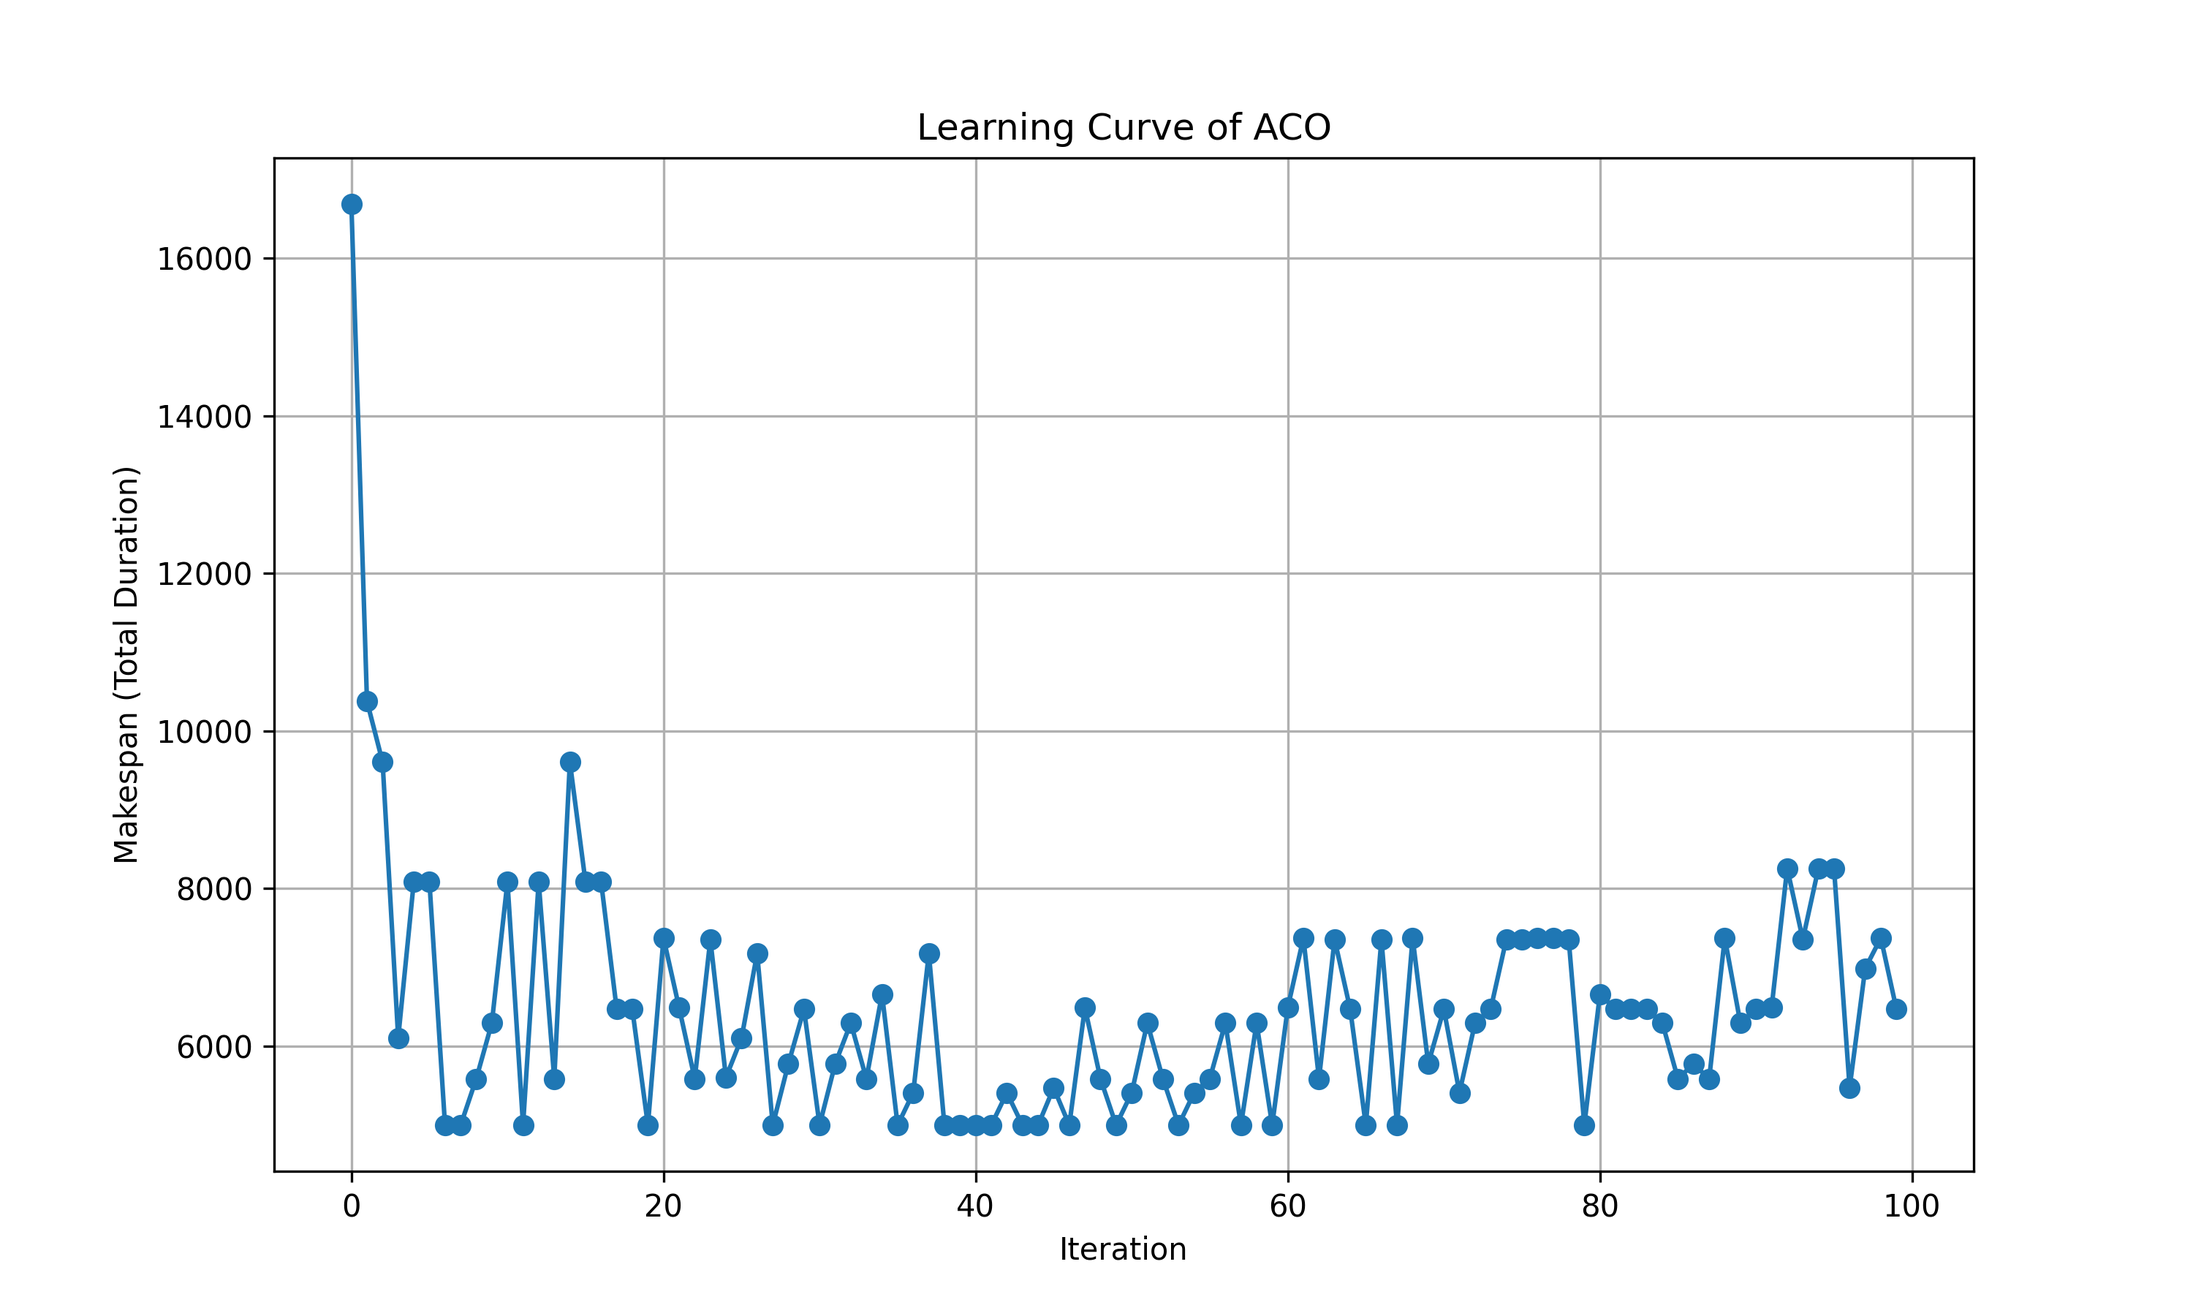
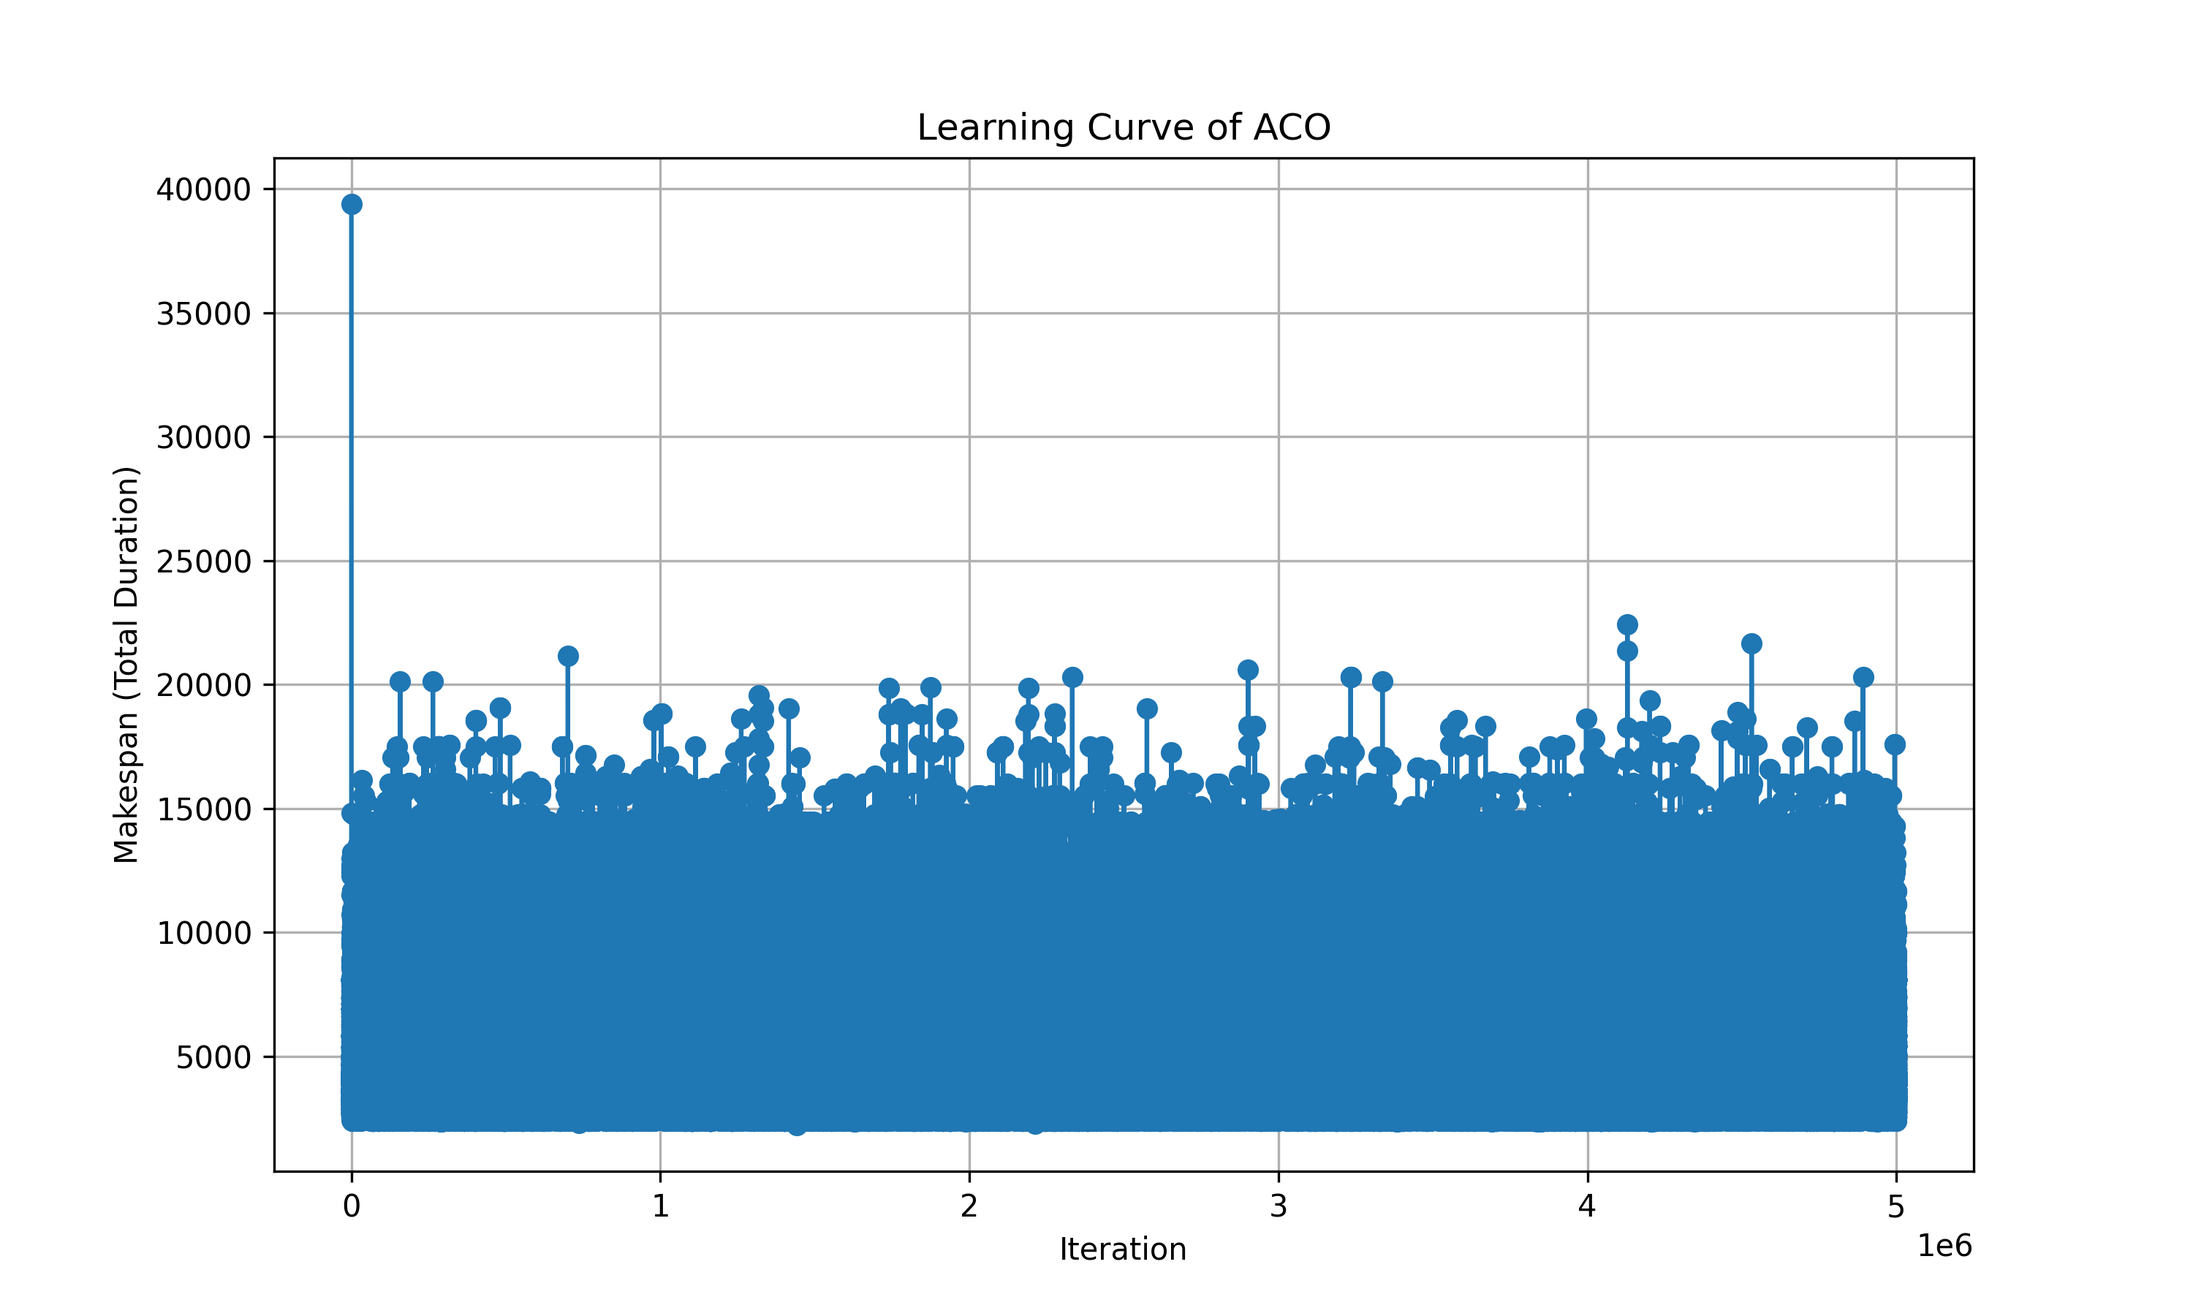
update README and best parameters

diff --git a/main.py b/main.py
@@ -14,14 +14,14 @@ workersData = pd.read_csv("data/workers.csv")
 jobs = create_jobs_from_df(jobData)
 workers = create_workers_from_df(workersData)
 
-# matches = create_matches(jobs,workers,0.398, VERBOSE=1)    
-# ants = []
-# for i in range(1, 7):
-#     ants.append(Ant(id=i))
+matches = create_matches(jobs,workers,0.554)    
+ants = []
+for i in range(1, 6):
+    ants.append(Ant(id=i))
 
-# optimal_path, total_duration = ACO(jobs, workers, matches, ants, alpha=1.913, beta=0.462, evap_coeff=0.133, Q=10, animate=animate, learning_curve=learning_curve, verbose=1, max_iterations=500)
+optimal_path, total_duration = ACO(jobs, workers, matches, ants, alpha=1.182, beta=0.497, evap_coeff=0.892, Q=75.021, animate=animate, learning_curve=learning_curve, max_iterations=5000000, verbose=1, patience=5000)
 
-# display_duration_per_worker(optimal_path)
+display_duration_per_worker(optimal_path)
 
 # print("Optimal Path:")
 # for job, worker in optimal_path:

diff --git a/utils/options.py b/utils/options.py
@@ -1,7 +1,7 @@
-verbose = True
+verbose = False
 find_optimal = False
-all_jobs = True
+all_jobs = False
 fine_tune = False
-jobs = 63
+jobs = 27
 animate = False
-learning_curve = False
+learning_curve = True

diff --git a/README.md b/README.md
@@ -3,25 +3,76 @@ solving static job scheduling problem in the UPC system with ant colony optimiza
 
 ### ACO vs Randomized Multi-start Local Search.
 
-| #              | 9 jobs         | 18 jobs           | 27 jobs           |
-| -------------- | -------------- | ----------------- | ----------------- |
-| Local Search.  | 00:38:29       | 01:09:10          | 01:46:34          |
-| Proposal (ACO) | 00:36:09       | 00:55:30          | 01:23:15          |
-| Improvement    | 00:02:20 (06%) | 00:13:40 (19.76%) | 00:23:19 (21.88%) |
+| #              | 9 jobs            | 18 jobs           | 27 jobs           |
+| -------------- | ----------------- | ----------------- | ----------------- |
+| Local Search.  | 00:38:29          | 01:09:10          | 01:46:34          |
+| Proposal (ACO) | 00:36:09          | 00:36:09          | 00:44:09          |
+| Improvement    | 00:02:20 (06.06%) | 00:33:01 (47.73%) | 01:02:25 (58.57%) |
 
 ---
 
 ### Genetic Algorithm vs Ant Colony Optimization
 
-| Nbr of jobs | Genetic Algorithm | Ant Colony Optimization |
-| ----------- | ----------------- | ----------------------- |
-| 09          | 00:36:09          | 00:36:09                |
-| 18          | 00:54:21          | 00:55:30                |
-| 27          | 01:13:36          | 01:23:15                |
-| 36          | 01:41:41          | 01:51:00                |
-| 45          | 02:00:07          | 02:18:45                |
-| 54          | 02:27:37          | 02:46:30                |
-| 63          | 02:50:48          | 03:17:34                |
-| 72          | 03:14:58          | 03:45:19                |
-| 81          | 03:34:57          | 04:14:00                |
-| 90          | 04:00:00          | 04:40:49                |
+| Nbr of jobs | Genetic Algorithm | Ant Colony Optimization |       Improvement |
+| :---------- | :---------------: | :---------------------: | ----------------: |
+| 09          |     00:36:09      |        00:36:09         | 00:00:00 (00.00%) |
+| 18          |     00:54:21      |        00:36:09         | 00:18:12 (33.49%) |
+| 27          |     01:13:36      |        00:44:09         | 00:29:27 (40.01%) |
+| 36          |     01:41:41      |        00:53:47         | 00:47:54 (47.11%) |
+| 45          |     02:00:07      |        01:04:41         | 00:55:26 (46.15%) |
+| 54          |     02:27:37      |        01:17:54         | 01:09:43 (47.23%) |
+| 63          |     02:50:48      |        01:25:53         | 01:24:55 (49.72%) |
+| 72          |     03:14:58      |        01:44:24         | 01:30:34 (46.45%) |
+| 81          |     03:34:57      |        02:00:12         | 01:34:45 (44.08%) |
+| 90          |     04:00:00      |        02:09:07         | 01:50:53 (46.20%) |
+
+
+
+Dataset: data/jobs9.csv
+Optimal Path: [('Network Simulator', 'PC5'), ('Optimization Algorithm', 'PC2'), ('DCGAN', 'PC3'), ('RNN', 'PC3'), ('CNN', 'PC2'), ('FFmpeg', 'PC4'), ('Converter', 'PC4'), ('Palabos', 'PC2'), ('Flow', 'PC4')]
+Total Duration: 0 hours 36 minutes 9 seconds
+
+
+Dataset: data/jobs18.csv
+Optimal Path: [('Network Simulator', 'PC5'), ('Optimization Algorithm', 'PC5'), ('DCGAN', 'PC4'), ('RNN', 'PC2'), ('CNN', 'PC4'), ('FFmpeg', 'PC3'), ('Converter', 'PC5'), ('Palabos', 'PC3'), ('Flow', 'PC5'), ('Network Simulator', 'PC5'), ('Optimization Algorithm', 'PC2'), ('DCGAN', 'PC4'), ('RNN', 'PC2'), ('CNN', 'PC3'), ('FFmpeg', 'PC5'), ('Converter', 'PC3'), ('Palabos', 'PC5'), ('Flow', 'PC5')]
+Total Duration: 0 hours 36 minutes 9 seconds
+
+
+Dataset: data/jobs27.csv
+Optimal Path: [('Network Simulator', 'PC4'), ('Optimization Algorithm', 'PC1'), ('DCGAN', 'PC4'), ('RNN', 'PC5'), ('CNN', 'PC3'), ('FFmpeg', 'PC4'), ('Converter', 'PC3'), ('Palabos', 'PC4'), ('Flow', 'PC3'), ('Network Simulator', 'PC4'), ('Optimization Algorithm', 'PC5'), ('DCGAN', 'PC5'), ('RNN', 'PC5'), ('CNN', 'PC4'), ('FFmpeg', 'PC5'), ('Converter', 'PC3'), ('Palabos', 'PC3'), ('Flow', 'PC2'), ('Network Simulator', 'PC5'), ('Optimization Algorithm', 'PC2'), ('DCGAN', 'PC5'), ('RNN', 'PC2'), ('CNN', 'PC3'), ('FFmpeg', 'PC4'), ('Converter', 'PC2'), ('Palabos', 'PC5'), ('Flow', 'PC4')]
+Total Duration: 0 hours 44 minutes 9 seconds
+
+
+Dataset: data/jobs36.csv
+Optimal Path: [('Network Simulator', 'PC5'), ('Optimization Algorithm', 'PC4'), ('DCGAN', 'PC5'), ('RNN', 'PC3'), ('CNN', 'PC3'), ('FFmpeg', 'PC4'), ('Converter', 'PC4'), ('Palabos', 'PC5'), ('Flow', 'PC5'), ('Network Simulator', 'PC5'), ('Optimization Algorithm', 'PC5'), ('DCGAN', 'PC4'), ('RNN', 'PC2'), ('CNN', 'PC3'), ('FFmpeg', 'PC4'), ('Converter', 'PC5'), ('Palabos', 'PC3'), ('Flow', 'PC5'), ('Network Simulator', 'PC4'), ('Optimization Algorithm', 'PC4'), ('DCGAN', 'PC5'), ('RNN', 'PC3'), ('CNN', 'PC5'), ('FFmpeg', 'PC5'), ('Converter', 'PC3'), ('Palabos', 'PC5'), ('Flow', 'PC2'), ('Network Simulator', 'PC4'), ('Optimization Algorithm', 'PC2'), ('DCGAN', 'PC3'), ('RNN', 'PC4'), ('CNN', 'PC5'), ('FFmpeg', 'PC5'), ('Converter', 'PC4'), ('Palabos', 'PC5'), ('Flow', 'PC5')]      
+Total Duration: 0 hours 53 minutes 47 seconds
+
+
+Dataset: data/jobs45.csv
+Optimal Path: [('Network Simulator', 'PC5'), ('Optimization Algorithm', 'PC3'), ('DCGAN', 'PC3'), ('RNN', 'PC5'), ('CNN', 'PC4'), ('FFmpeg', 'PC4'), ('Converter', 'PC4'), ('Palabos', 'PC2'), ('Flow', 'PC2'), ('Network Simulator', 'PC5'), ('Optimization Algorithm', 'PC4'), ('DCGAN', 'PC5'), ('RNN', 'PC5'), ('CNN', 'PC4'), ('FFmpeg', 'PC4'), ('Converter', 'PC1'), ('Palabos', 'PC4'), ('Flow', 'PC4'), ('Network Simulator', 'PC4'), ('Optimization Algorithm', 'PC5'), ('DCGAN', 'PC3'), ('RNN', 'PC4'), ('CNN', 'PC5'), ('FFmpeg', 'PC3'), ('Converter', 'PC3'), ('Palabos', 'PC3'), ('Flow', 'PC2'), ('Network Simulator', 'PC3'), ('Optimization Algorithm', 'PC1'), ('DCGAN', 'PC4'), ('RNN', 'PC4'), ('CNN', 'PC4'), ('FFmpeg', 'PC2'), ('Converter', 'PC5'), ('Palabos', 'PC4'), ('Flow', 'PC5'), ('Network Simulator', 'PC4'), ('Optimization Algorithm', 'PC5'), ('DCGAN', 'PC5'), ('RNN', 'PC5'), ('CNN', 'PC5'), ('FFmpeg', 'PC5'), ('Converter', 'PC3'), ('Palabos', 'PC2'), ('Flow', 'PC4')]
+Total Duration: 1 hours 4 minutes 41 seconds
+
+
+Dataset: data/jobs54.csv
+Optimal Path: [('Network Simulator', 'PC5'), ('Optimization Algorithm', 'PC2'), ('DCGAN', 'PC5'), ('RNN', 'PC3'), ('CNN', 'PC5'), ('FFmpeg', 'PC5'), ('Converter', 'PC4'), ('Palabos', 'PC5'), ('Flow', 'PC5'), ('Network Simulator', 'PC5'), ('Optimization Algorithm', 'PC3'), ('DCGAN', 'PC4'), ('RNN', 'PC5'), ('CNN', 'PC5'), ('FFmpeg', 'PC2'), ('Converter', 'PC4'), ('Palabos', 'PC3'), ('Flow', 'PC5'), ('Network Simulator', 'PC4'), ('Optimization Algorithm', 'PC5'), ('DCGAN', 'PC4'), ('RNN', 'PC5'), ('CNN', 'PC3'), ('FFmpeg', 'PC5'), ('Converter', 'PC1'), ('Palabos', 'PC3'), ('Flow', 'PC5'), ('Network Simulator', 'PC4'), ('Optimization Algorithm', 'PC6'), ('DCGAN', 'PC4'), ('RNN', 'PC4'), ('CNN', 'PC6'), ('FFmpeg', 'PC5'), ('Converter', 'PC5'), ('Palabos', 'PC4'), ('Flow', 'PC4'), ('Network Simulator', 'PC3'), ('Optimization Algorithm', 'PC2'), ('DCGAN', 'PC4'), ('RNN', 'PC3'), ('CNN', 'PC5'), ('FFmpeg', 'PC5'), ('Converter', 'PC3'), ('Palabos', 'PC3'), ('Flow', 'PC4'), ('Network Simulator', 'PC5'), ('Optimization Algorithm', 'PC4'), ('DCGAN', 'PC4'), ('RNN', 'PC6'), ('CNN', 'PC3'), ('FFmpeg', 'PC5'), ('Converter', 'PC2'), ('Palabos', 'PC4'), ('Flow', 'PC4')]
+Total Duration: 1 hours 17 minutes 54 seconds
+
+
+Dataset: data/jobs63.csv
+Optimal Path: [('Network Simulator', 'PC4'), ('Optimization Algorithm', 'PC5'), ('DCGAN', 'PC4'), ('RNN', 'PC3'), ('CNN', 'PC5'), ('FFmpeg', 'PC4'), ('Converter', 'PC3'), ('Palabos', 'PC3'), ('Flow', 'PC3'), ('Network Simulator', 'PC5'), ('Optimization Algorithm', 'PC4'), ('DCGAN', 'PC4'), ('RNN', 'PC5'), ('CNN', 'PC4'), ('FFmpeg', 'PC3'), ('Converter', 'PC4'), ('Palabos', 'PC5'), ('Flow', 'PC5'), ('Network Simulator', 'PC4'), ('Optimization Algorithm', 'PC4'), ('DCGAN', 'PC5'), ('RNN', 'PC3'), ('CNN', 'PC5'), ('FFmpeg', 'PC4'), ('Converter', 'PC2'), ('Palabos', 'PC5'), ('Flow', 'PC4'), ('Network Simulator', 'PC2'), ('Optimization Algorithm', 'PC4'), ('DCGAN', 'PC5'), ('RNN', 'PC2'), ('CNN', 'PC3'), ('FFmpeg', 'PC5'), ('Converter', 'PC3'), ('Palabos', 'PC5'), ('Flow', 'PC3'), ('Network Simulator', 'PC4'), ('Optimization Algorithm', 'PC4'), ('DCGAN', 'PC5'), ('RNN', 'PC4'), ('CNN', 'PC3'), ('FFmpeg', 'PC2'), ('Converter', 'PC4'), ('Palabos', 'PC3'), ('Flow', 'PC2'), ('Network Simulator', 'PC3'), ('Optimization Algorithm', 'PC4'), ('DCGAN', 'PC5'), ('RNN', 'PC4'), ('CNN', 'PC5'), ('FFmpeg', 'PC5'), ('Converter', 'PC2'), ('Palabos', 'PC3'), ('Flow', 'PC3'), ('Network Simulator', 'PC5'), ('Optimization Algorithm', 'PC2'), ('DCGAN', 'PC4'), ('RNN', 'PC2'), ('CNN', 'PC3'), ('FFmpeg', 'PC3'), ('Converter', 'PC4'), ('Palabos', 'PC4'), ('Flow', 'PC3')]
+Total Duration: 1 hours 25 minutes 53 seconds
+
+
+Dataset: data/jobs72.csv
+Optimal Path: [('Network Simulator', 'PC5'), ('Optimization Algorithm', 'PC5'), ('DCGAN', 'PC5'), ('RNN', 'PC2'), ('CNN', 'PC4'), ('FFmpeg', 'PC4'), ('Converter', 'PC2'), ('Palabos', 'PC5'), ('Flow', 'PC4'), ('Network Simulator', 'PC4'), ('Optimization Algorithm', 'PC5'), ('DCGAN', 'PC4'), ('RNN', 'PC3'), ('CNN', 'PC4'), ('FFmpeg', 'PC5'), ('Converter', 'PC5'), ('Palabos', 'PC5'), ('Flow', 'PC2'), ('Network Simulator', 'PC4'), ('Optimization Algorithm', 'PC6'), ('DCGAN', 'PC4'), ('RNN', 'PC5'), ('CNN', 'PC2'), ('FFmpeg', 'PC5'), ('Converter', 'PC4'), ('Palabos', 'PC6'), ('Flow', 'PC1'), ('Network Simulator', 'PC4'), ('Optimization Algorithm', 'PC3'), ('DCGAN', 'PC4'), ('RNN', 'PC5'), ('CNN', 'PC5'), ('FFmpeg', 'PC5'), ('Converter', 'PC3'), ('Palabos', 'PC5'), ('Flow', 'PC3'), ('Network Simulator', 'PC5'), ('Optimization Algorithm', 'PC4'), ('DCGAN', 'PC4'), ('RNN', 'PC2'), ('CNN', 'PC5'), ('FFmpeg', 'PC4'), ('Converter', 'PC4'), ('Palabos', 'PC4'), ('Flow', 'PC6'), ('Network Simulator', 'PC3'), ('Optimization Algorithm', 'PC5'), ('DCGAN', 'PC5'), ('RNN', 'PC6'), ('CNN', 'PC5'), ('FFmpeg', 'PC3'), ('Converter', 'PC5'), ('Palabos', 'PC2'), ('Flow', 'PC3'), ('Network Simulator', 'PC5'), ('Optimization Algorithm', 'PC4'), ('DCGAN', 'PC4'), ('RNN', 'PC5'), ('CNN', 'PC5'), ('FFmpeg', 'PC3'), ('Converter', 'PC4'), ('Palabos', 'PC2'), ('Flow', 'PC4'), ('Network Simulator', 'PC3'), ('Optimization Algorithm', 'PC3'), ('DCGAN', 'PC3'), ('RNN', 'PC5'), ('CNN', 'PC3'), ('FFmpeg', 'PC5'), ('Converter', 'PC4'), ('Palabos', 'PC3'), ('Flow', 'PC5')]
+Total Duration: 1 hours 44 minutes 24 seconds
+
+
+Dataset: data/jobs81.csv
+Optimal Path: [('Network Simulator', 'PC4'), ('Optimization Algorithm', 'PC5'), ('DCGAN', 'PC3'), ('RNN', 'PC5'), ('CNN', 'PC5'), ('FFmpeg', 'PC4'), ('Converter', 'PC4'), ('Palabos', 'PC2'), ('Flow', 'PC6'), ('Network Simulator', 'PC2'), ('Optimization Algorithm', 'PC2'), ('DCGAN', 'PC4'), ('RNN', 'PC5'), ('CNN', 'PC4'), ('FFmpeg', 'PC3'), ('Converter', 'PC4'), ('Palabos', 'PC3'), ('Flow', 'PC5'), ('Network Simulator', 'PC2'), ('Optimization Algorithm', 'PC3'), ('DCGAN', 'PC4'), ('RNN', 'PC5'), ('CNN', 'PC5'), ('FFmpeg', 'PC5'), ('Converter', 'PC5'), ('Palabos', 'PC5'), ('Flow', 'PC2'), ('Network Simulator', 'PC2'), ('Optimization Algorithm', 'PC5'), ('DCGAN', 'PC5'), ('RNN', 'PC5'), ('CNN', 'PC3'), ('FFmpeg', 'PC4'), ('Converter', 'PC3'), ('Palabos', 'PC5'), ('Flow', 'PC5'), ('Network Simulator', 'PC5'), ('Optimization Algorithm', 'PC5'), ('DCGAN', 'PC5'), ('RNN', 'PC3'), ('CNN', 'PC5'), ('FFmpeg', 'PC4'), ('Converter', 'PC5'), ('Palabos', 'PC3'), ('Flow', 'PC3'), ('Network Simulator', 'PC5'), ('Optimization Algorithm', 'PC4'), ('DCGAN', 'PC4'), ('RNN', 'PC5'), ('CNN', 'PC3'), ('FFmpeg', 'PC3'), ('Converter', 'PC2'), ('Palabos', 'PC5'), ('Flow', 'PC5'), ('Network Simulator', 'PC3'), ('Optimization Algorithm', 'PC2'), ('DCGAN', 'PC3'), ('RNN', 'PC4'), ('CNN', 'PC5'), ('FFmpeg', 'PC4'), ('Converter', 'PC5'), ('Palabos', 'PC4'), ('Flow', 'PC5'), ('Network Simulator', 'PC2'), ('Optimization Algorithm', 'PC5'), ('DCGAN', 'PC5'), ('RNN', 'PC2'), ('CNN', 'PC4'), ('FFmpeg', 'PC4'), ('Converter', 'PC3'), ('Palabos', 'PC5'), ('Flow', 'PC3'), ('Network Simulator', 'PC6'), ('Optimization Algorithm', 'PC4'), ('DCGAN', 'PC4'), ('RNN', 'PC1'), ('CNN', 'PC3'), ('FFmpeg', 'PC4'), ('Converter', 'PC5'), ('Palabos', 'PC4'), ('Flow', 'PC3')]
+Total Duration: 2 hours 0 minutes 12 seconds
+
+
+Dataset: data/jobs90.csv
+Optimal Path: [('Network Simulator', 'PC3'), ('Optimization Algorithm', 'PC3'), ('DCGAN', 'PC5'), ('RNN', 'PC4'), ('CNN', 'PC2'), ('FFmpeg', 'PC4'), ('Converter', 'PC4'), ('Palabos', 'PC5'), ('Flow', 'PC3'), ('Network Simulator', 'PC5'), ('Optimization Algorithm', 'PC3'), ('DCGAN', 'PC5'), ('RNN', 'PC5'), ('CNN', 'PC3'), ('FFmpeg', 'PC4'), ('Converter', 'PC5'), ('Palabos', 'PC2'), ('Flow', 'PC2'), ('Network Simulator', 'PC2'), ('Optimization Algorithm', 'PC3'), ('DCGAN', 'PC5'), ('RNN', 'PC6'), ('CNN', 'PC5'), ('FFmpeg', 'PC3'), ('Converter', 'PC1'), ('Palabos', 'PC4'), ('Flow', 'PC3'), ('Network Simulator', 'PC5'), ('Optimization Algorithm', 'PC3'), ('DCGAN', 'PC4'), ('RNN', 'PC5'), ('CNN', 'PC5'), ('FFmpeg', 'PC5'), ('Converter', 'PC4'), ('Palabos', 'PC4'), ('Flow', 'PC2'), ('Network Simulator', 'PC5'), ('Optimization Algorithm', 'PC3'), ('DCGAN', 'PC4'), ('RNN', 'PC5'), ('CNN', 'PC4'), ('FFmpeg', 'PC5'), ('Converter', 'PC4'), ('Palabos', 'PC3'), ('Flow', 'PC3'), ('Network Simulator', 'PC2'), ('Optimization Algorithm', 'PC4'), ('DCGAN', 'PC3'), ('RNNwork Simulator', 'PC5'), ('Optimization Algorithm', 'PC3'), ('DCGAN', 'PC4'), ('RNN', 'PC5'), ('CNN', 'PC4'), ('FFmpeg', 'PC5'), ('Converter', 'PC4'), ('Palabos', 'PC3'), ('Flow', 'PC3'), ('Network Simulator', 'PC2'), ('Optimization Algorithm', 'PC4'), ('DCGAN', 'PC3'), ('RNN', 'PC2'), ('CNN', 'PC5'), ('FFmpeg', 'PC5'), ('Converter', 'PC3'), ('Palabos', 'PC4'), ('Flow', 'PC5'), ('Network Simulator', 'PC2'), ('Optimization Algorithm', 'PC5'), ('DCGAN', 'PC5'), ('RNN', 'PC4'), ('CNN', 'PC1'), ('FFmpeg', 'PC3'), ('Converter', 'PC4'), ('Palabos', 'PC3'), ('Flow', 'PC2'), ('Network Simulator', 'PC2'), ('Optimization Algorithm', 'PC3'), ('DCGAN', 'PC4'), ('RNN', 'PC4'), ('CNN', 'PC4'), ('FFmpeg', 'PC5'), ('Converter', 'PC3'), ('Palabos', 'PC4'), ('Flow', 'PC2'), ('Network Simulator', 'PC4'), ('Optimization Algorithm', 'PC5'), ('DCGAN', 'PC4'), ('RNN', 'PC3'), ('CNN', 'PC5'), ('FFmpeg', 'PC4'), ('Converter', 'PC3'), ('Palabos', 'PC3'), ('Flow', 'PC4'), ('Network Simulator', 'PC5'), ('Optimization Algorithm', 'PC2'), ('DCGAN', 'PC3'), ('RNN', 'PC4'), ('CNN', 'PC3'), ('FFmpeg', 'PC3'), ('Converter', 'PC3'), ('Palabos', 'PC2'), ('Flow', 'PC2')]
+Total Duration: 2 hours 9 minutes 7 seconds

diff --git a/README(old).md b/README(old).md
@@ -1,0 +1,27 @@
+# ACO-for-assignation
+solving static job scheduling problem in the UPC system with ant colony optimization
+
+### ACO vs Randomized Multi-start Local Search.
+
+| #              | 9 jobs         | 18 jobs           | 27 jobs           |
+| -------------- | -------------- | ----------------- | ----------------- |
+| Local Search.  | 00:38:29       | 01:09:10          | 01:46:34          |
+| Proposal (ACO) | 00:36:09       | 00:55:30          | 01:23:15          |
+| Improvement    | 00:02:20 (06%) | 00:13:40 (19.76%) | 00:23:19 (21.88%) |
+
+---
+
+### Genetic Algorithm vs Ant Colony Optimization
+
+| Nbr of jobs | Genetic Algorithm | Ant Colony Optimization |
+| ----------- | ----------------- | ----------------------- |
+| 09          | 00:36:09          | 00:36:09                |
+| 18          | 00:54:21          | 00:55:30                |
+| 27          | 01:13:36          | 01:23:15                |
+| 36          | 01:41:41          | 01:51:00                |
+| 45          | 02:00:07          | 02:18:45                |
+| 54          | 02:27:37          | 02:46:30                |
+| 63          | 02:50:48          | 03:17:34                |
+| 72          | 03:14:58          | 03:45:19                |
+| 81          | 03:34:57          | 04:14:00                |
+| 90          | 04:00:00          | 04:40:49                |
